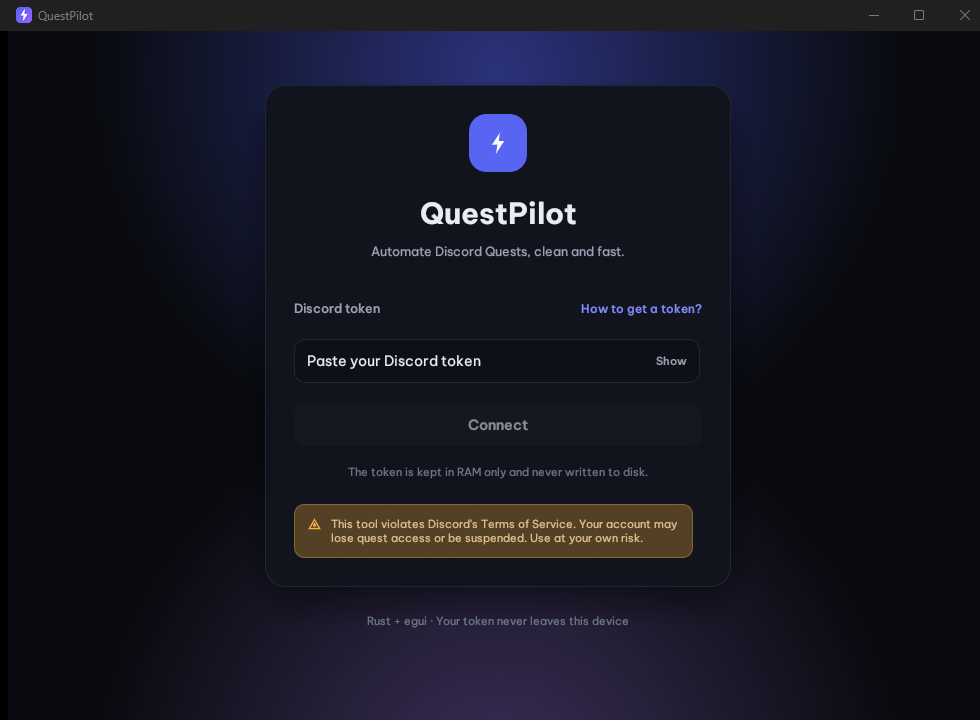
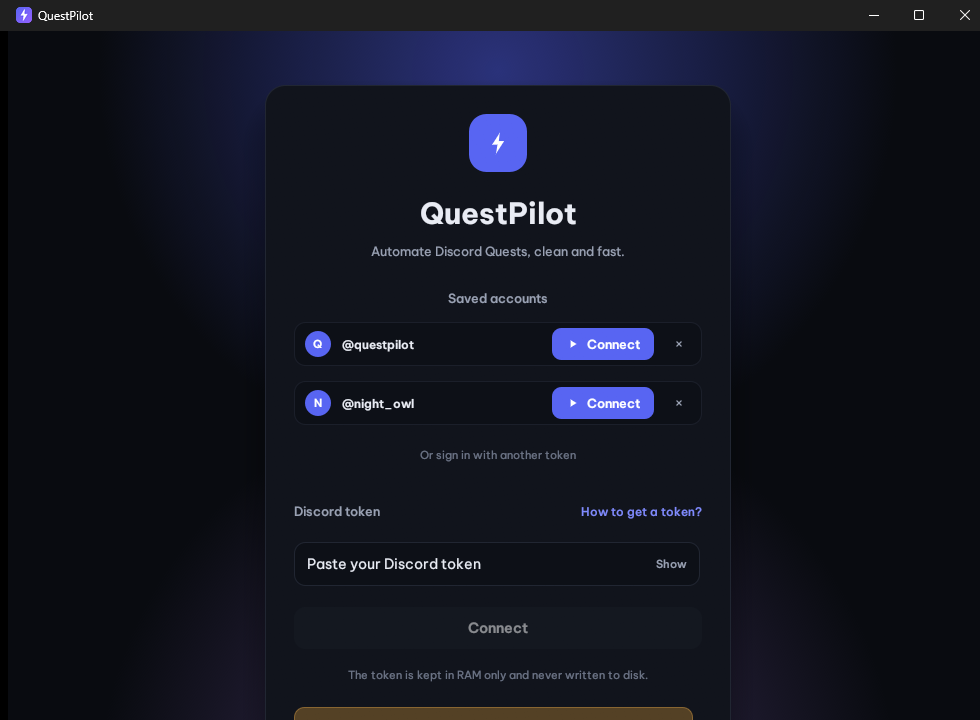
Add saved accounts, reward-type filters and an optional MSI

diff --git a/src/app.rs b/src/app.rs
@@ -28,6 +28,42 @@ enum Filter {
     Done,
 }
 
+/// Reward buckets mirror what Discord puts in `rewards_config` (`Nitro`,
+/// `Orbs`, `Avatar Decoration`, …). Anything unknown lands in `Other`.
+#[derive(Clone, Copy, PartialEq, Eq)]
+enum RewardFilter {
+    Any,
+    Nitro,
+    Orbs,
+    Decoration,
+    Other,
+}
+
+impl RewardFilter {
+    fn label(self) -> &'static str {
+        match self {
+            Self::Any => "Any reward",
+            Self::Nitro => "Nitro",
+            Self::Orbs => "Orbs",
+            Self::Decoration => "Decoration",
+            Self::Other => "Other",
+        }
+    }
+
+    fn matches(self, reward: &str) -> bool {
+        self == Self::Any || reward_kind(reward) == self
+    }
+}
+
+/// Session kept in RAM so you can hop between accounts without retyping the
+/// token. Nothing is written to disk.
+struct SavedAccount {
+    token: String,
+    label: String,
+    id: String,
+    initial: String,
+}
+
 #[derive(Clone, Copy)]
 enum ToastKind {
     Success,
@@ -50,6 +86,8 @@ struct LogEntry {
 pub struct App {
     worker: Handle,
     token: String,
+    pending_token: String,
+    accounts: Vec<SavedAccount>,
     show_token: bool,
     user: Option<User>,
     quests: Vec<Quest>,
@@ -58,6 +96,7 @@ pub struct App {
     settings: Settings,
     view: View,
     filter: Filter,
+    reward_filter: RewardFilter,
     search: String,
     logs: Vec<LogEntry>,
     running: Option<String>,
@@ -76,6 +115,8 @@ impl App {
         let mut app = Self {
             worker,
             token: String::new(),
+            pending_token: String::new(),
+            accounts: Vec::new(),
             show_token: false,
             user: None,
             quests: Vec::new(),
@@ -84,6 +125,7 @@ impl App {
             settings,
             view: View::Quests,
             filter: Filter::All,
+            reward_filter: RewardFilter::Any,
             search: String::new(),
             logs: Vec::new(),
             running: None,
@@ -192,6 +234,23 @@ impl App {
         if std::env::var("QUESTPILOT_DEMO_VIEW").as_deref() == Ok("help") {
             self.show_help = true;
         }
+        if std::env::var("QUESTPILOT_DEMO_VIEW").as_deref() == Ok("login") {
+            self.user = None;
+            self.accounts = vec![
+                SavedAccount {
+                    token: "demo-token-one".into(),
+                    label: "@questpilot".into(),
+                    id: "1".into(),
+                    initial: "Q".into(),
+                },
+                SavedAccount {
+                    token: "demo-token-two".into(),
+                    label: "@night_owl".into(),
+                    id: "2".into(),
+                    initial: "N".into(),
+                },
+            ];
+        }
         self.logs.push(LogEntry {
             time: "16:20:01".into(),
             level: LogLevel::Info,
@@ -220,6 +279,9 @@ impl App {
                     self.logging_in = false;
                     match result {
                         Ok(user) => {
+                            let token = std::mem::take(&mut self.pending_token);
+                            self.remember_account(&token, &user);
+                            self.token.clear();
                             self.user = Some(user);
                             self.auth_error = None;
                             self.view = View::Quests;
@@ -324,7 +386,31 @@ impl App {
         }
         self.auth_error = None;
         self.logging_in = true;
+        self.pending_token = token.clone();
         self.worker.send(Command::Login(token));
+    }
+
+    /// Keeps a working session around so switching accounts is one click. The
+    /// list only lives in memory; nothing is persisted.
+    fn remember_account(&mut self, token: &str, user: &User) {
+        if token.is_empty() || self.accounts.iter().any(|account| account.token == token) {
+            return;
+        }
+        self.accounts.push(SavedAccount {
+            token: token.to_string(),
+            label: user.handle(),
+            id: user.id.clone(),
+            initial: user.initial(),
+        });
+    }
+
+    fn switch_account(&mut self, index: usize) {
+        let Some(account) = self.accounts.get(index) else {
+            return;
+        };
+        self.token = account.token.clone();
+        self.auth_error = None;
+        self.submit_login();
     }
 
     fn logout(&mut self) {
@@ -472,6 +558,91 @@ impl App {
                 .font(theme::regular(13.0))
                 .color(TEXT_SOFT),
         );
+
+        if !self.accounts.is_empty() {
+            ui.add_space(22.0);
+            ui.label(
+                RichText::new("Saved accounts")
+                    .font(theme::medium(12.5))
+                    .color(TEXT_SOFT),
+            );
+            ui.add_space(7.0);
+
+            let accounts: Vec<(String, String, String)> = self
+                .accounts
+                .iter()
+                .map(|account| {
+                    (
+                        account.label.clone(),
+                        account.id.clone(),
+                        account.initial.clone(),
+                    )
+                })
+                .collect();
+            let mut connect = None;
+            let mut remove = None;
+
+            for (index, (label, id, initial)) in accounts.iter().enumerate() {
+                Frame::NONE
+                    .fill(INPUT)
+                    .stroke(Stroke::new(1.0_f32, BORDER_SOFT))
+                    .corner_radius(CornerRadius::same(11))
+                    .inner_margin(Margin::symmetric(10, 5))
+                    .show(ui, |ui| {
+                        ui.horizontal(|ui| {
+                            let (rect, _) =
+                                ui.allocate_exact_size(Vec2::splat(26.0), Sense::hover());
+                            ui.painter()
+                                .circle_filled(rect.center(), 13.0, color_from_str(id));
+                            ui.painter().text(
+                                rect.center(),
+                                Align2::CENTER_CENTER,
+                                initial,
+                                theme::semibold(11.0),
+                                Color32::WHITE,
+                            );
+                            ui.add_space(2.0);
+                            ui.label(RichText::new(label).font(theme::semibold(12.0)).color(TEXT));
+                            ui.with_layout(Layout::right_to_left(Align::Center), |ui| {
+                                if icon_button(ui, Icon::Close, 24.0, "Remove from this list")
+                                    .clicked()
+                                {
+                                    remove = Some(index);
+                                }
+                                ui.add_space(4.0);
+                                if pill_button(
+                                    ui,
+                                    "Connect",
+                                    Some(Icon::Play),
+                                    ACCENT,
+                                    Color32::WHITE,
+                                    Stroke::NONE,
+                                    0.0,
+                                )
+                                .clicked()
+                                {
+                                    connect = Some(index);
+                                }
+                            });
+                        });
+                    });
+                ui.add_space(6.0);
+            }
+
+            if let Some(index) = connect {
+                self.switch_account(index);
+            }
+            if let Some(index) = remove {
+                self.accounts.remove(index);
+            }
+
+            ui.add_space(8.0);
+            ui.label(
+                RichText::new("Or sign in with another token")
+                    .font(theme::regular(11.0))
+                    .color(MUTED),
+            );
+        }
 
         ui.add_space(24.0);
         ui.horizontal(|ui| {
@@ -902,6 +1073,26 @@ impl App {
             });
         });
 
+        ui.add_space(8.0);
+        ui.horizontal(|ui| {
+            for value in [
+                RewardFilter::Any,
+                RewardFilter::Nitro,
+                RewardFilter::Orbs,
+                RewardFilter::Decoration,
+                RewardFilter::Other,
+            ] {
+                let count = self
+                    .quests
+                    .iter()
+                    .filter(|quest| value.matches(&quest.reward))
+                    .count();
+                if filter_pill(ui, value.label(), self.reward_filter == value, count).clicked() {
+                    self.reward_filter = value;
+                }
+            }
+        });
+
         ui.add_space(14.0);
 
         let query = self.search.trim().to_lowercase();
@@ -914,6 +1105,7 @@ impl App {
                 Filter::Open => !quest.completed && !quest.claimed,
                 Filter::Done => quest.completed || quest.claimed,
             })
+            .filter(|(_, quest)| self.reward_filter.matches(&quest.reward))
             .filter(|(_, quest)| {
                 query.is_empty()
                     || quest.name.to_lowercase().contains(&query)
@@ -1936,6 +2128,19 @@ fn mechanism_row(ui: &mut Ui, color: Color32, title: &str, description: &str) {
             );
         });
     });
+}
+
+fn reward_kind(reward: &str) -> RewardFilter {
+    let lower = reward.to_ascii_lowercase();
+    if lower.contains("nitro") {
+        RewardFilter::Nitro
+    } else if lower.contains("orb") {
+        RewardFilter::Orbs
+    } else if lower.contains("decor") {
+        RewardFilter::Decoration
+    } else {
+        RewardFilter::Other
+    }
 }
 
 fn kind_color(kind: crate::models::QuestKind) -> Color32 {

diff --git a/README.md b/README.md
@@ -17,13 +17,15 @@ Tauri/WebView: the backend and UI live in a single `.exe` (fonts embedded).
 
 ## Install
 
-Packaged builds (`.zip`, `.deb`, `.AppImage`, `.dmg`) are attached to each
+Packaged builds (`.zip`, `.msi`, `.deb`, `.AppImage`, `.dmg`) are attached to each
 [GitHub release](https://github.com/Zqw1k/Auto-Discord-Quests/releases).
 
 ### Windows
 
 Download `questpilot-*-windows-x86_64.zip`, extract it and run `questpilot.exe`.
-The binary is unsigned, so SmartScreen may warn — choose *More info → Run anyway*.
+There is also an optional `questpilot-*-windows-x86_64.msi` installer that installs the app
+for all users and adds a Start Menu shortcut.
+The binaries are unsigned, so SmartScreen may warn — choose *More info → Run anyway*.
 
 ### Linux
 
@@ -63,9 +65,12 @@ xattr -dr com.apple.quarantine /Applications/QuestPilot.app
 
 - Sign in by pasting your token; the token **stays in RAM**, is never written to disk and is never sent
   anywhere except `discord.com`.
+- **Saved accounts**: every successful sign-in is remembered in memory, so you can switch accounts with
+  one click from the sign-in screen (sign out keeps the list; closing the app clears it).
 - **Do all**: queues open quests and runs them one by one; you can stop at any time.
 - Auto-claim rewards on completion (optional), refresh the list when you return to the window.
-- Filters (All / Open / Done), search, step-by-step logs, toast notifications.
+- Filters by state (All / Open / Done) and by reward type (Nitro / Orbs / Decoration / Other), plus search,
+  step-by-step logs and toast notifications.
 - Expired quests are hidden automatically.
 - Dark UI, Be Vietnam Pro font, hand-drawn vector icons, no external image dependencies.
 
@@ -150,6 +155,7 @@ src/
 assets/fonts/          Be Vietnam Pro (OFL)
 assets/icon.png        app icon used by packages
 packaging/             Linux .desktop entry and macOS Info.plist
+wix/                   Windows MSI definition (cargo-wix)
 scripts/shot.ps1       captures the app window (used for README screenshots)
 docs/screenshots/      UI screenshots
 .github/workflows/     CI and release packaging (.deb, .AppImage, .dmg, .zip)
